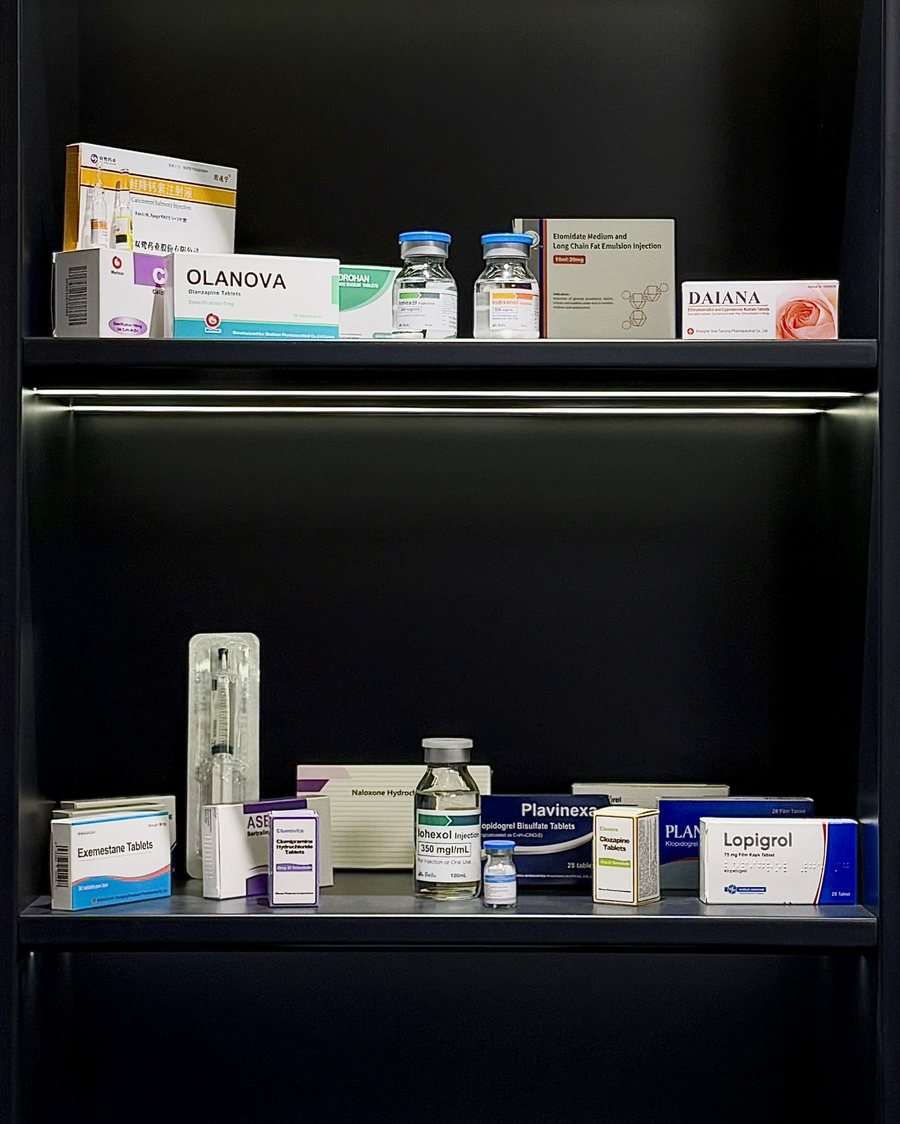
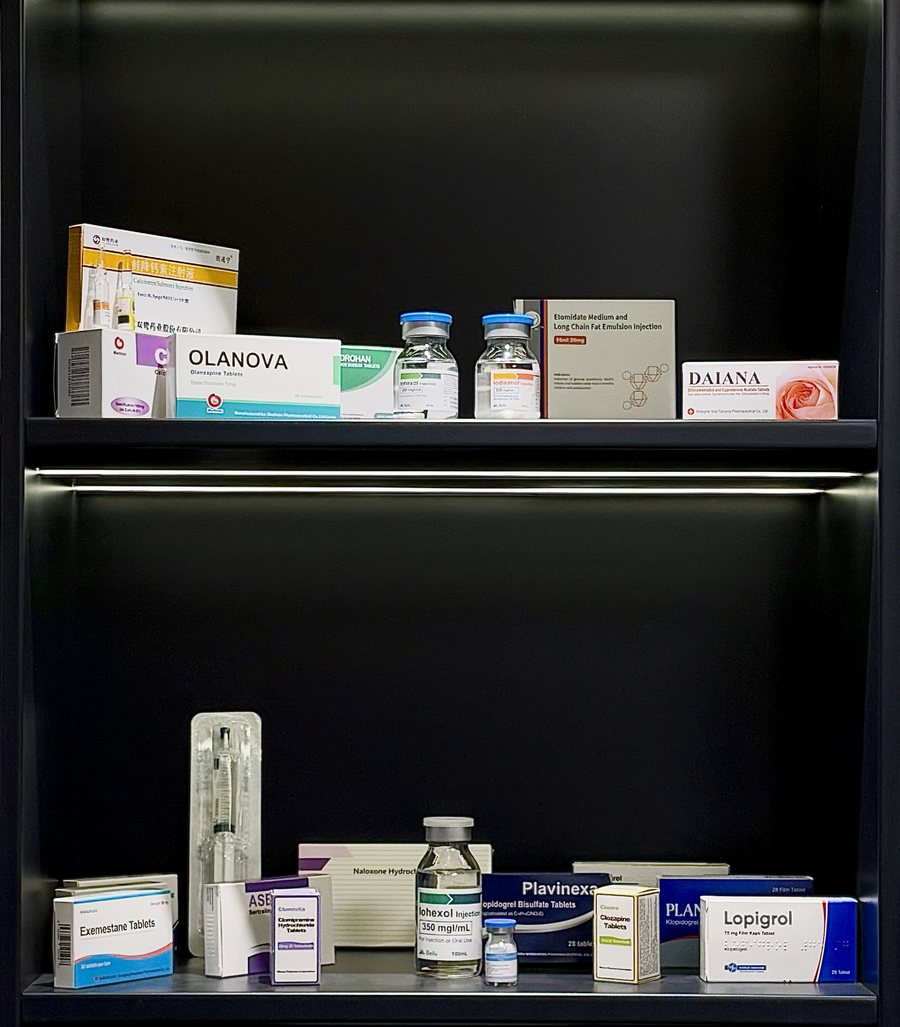
Hero: final two-shelf product photograph, uncropped framing
Claude-Session: https://claude.ai/code/session_018NJ5DDrYDaiiD2HMGEydfA

diff --git a/src/styles/global.css b/src/styles/global.css
@@ -110,7 +110,7 @@ summary::-webkit-details-marker { display:none; }
 .hero-split .hero-grid { display:grid; grid-template-columns:minmax(0,1.05fr) minmax(0,.95fr); gap:64px; align-items:center; }
 .hero-split .hero-main { padding:96px 0 88px; max-width:none; }
 .hero-split h1 { font-size:clamp(34px,3.9vw,54px); }
-.hero-photo { aspect-ratio:4/5; max-height:620px; align-self:stretch; box-shadow:0 40px 80px -30px #00000080; }
+.hero-photo { aspect-ratio:6/7; max-height:640px; align-self:stretch; box-shadow:0 40px 80px -30px #00000080; }
 .hero-photo img { filter:none; }
 .hero-split:before { -webkit-mask-image:linear-gradient(100deg,transparent 30%,#000 55%,#000 100%); mask-image:linear-gradient(100deg,transparent 30%,#000 55%,#000 100%); opacity:.55; }
 .hero h1 { color:#fff; margin-bottom:34px; max-width:12.5em; }
